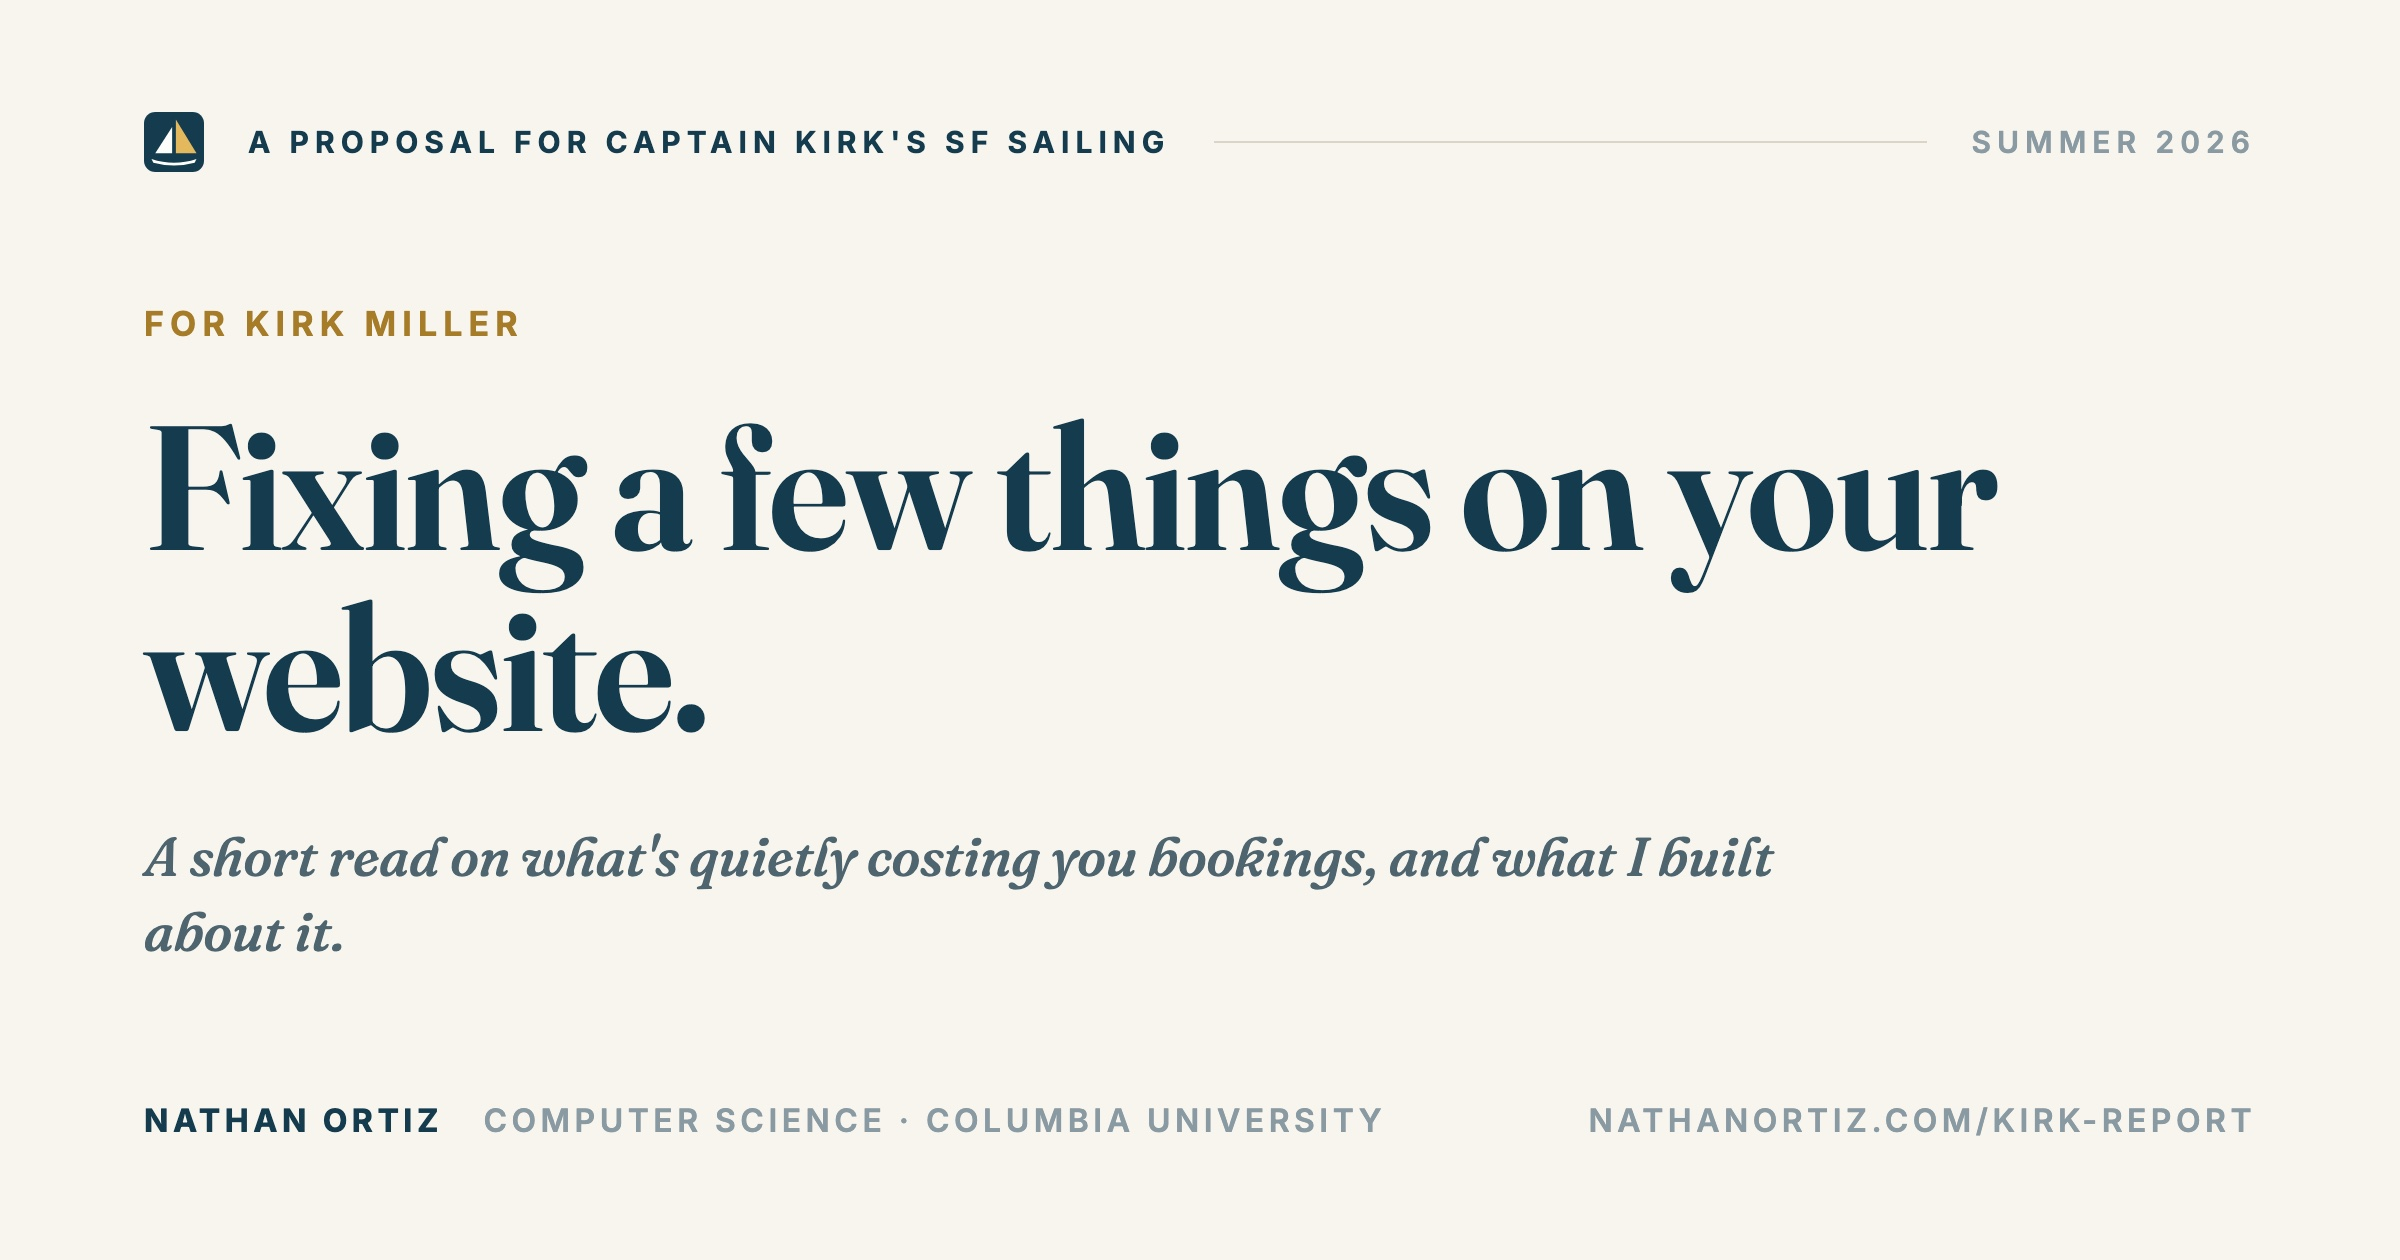
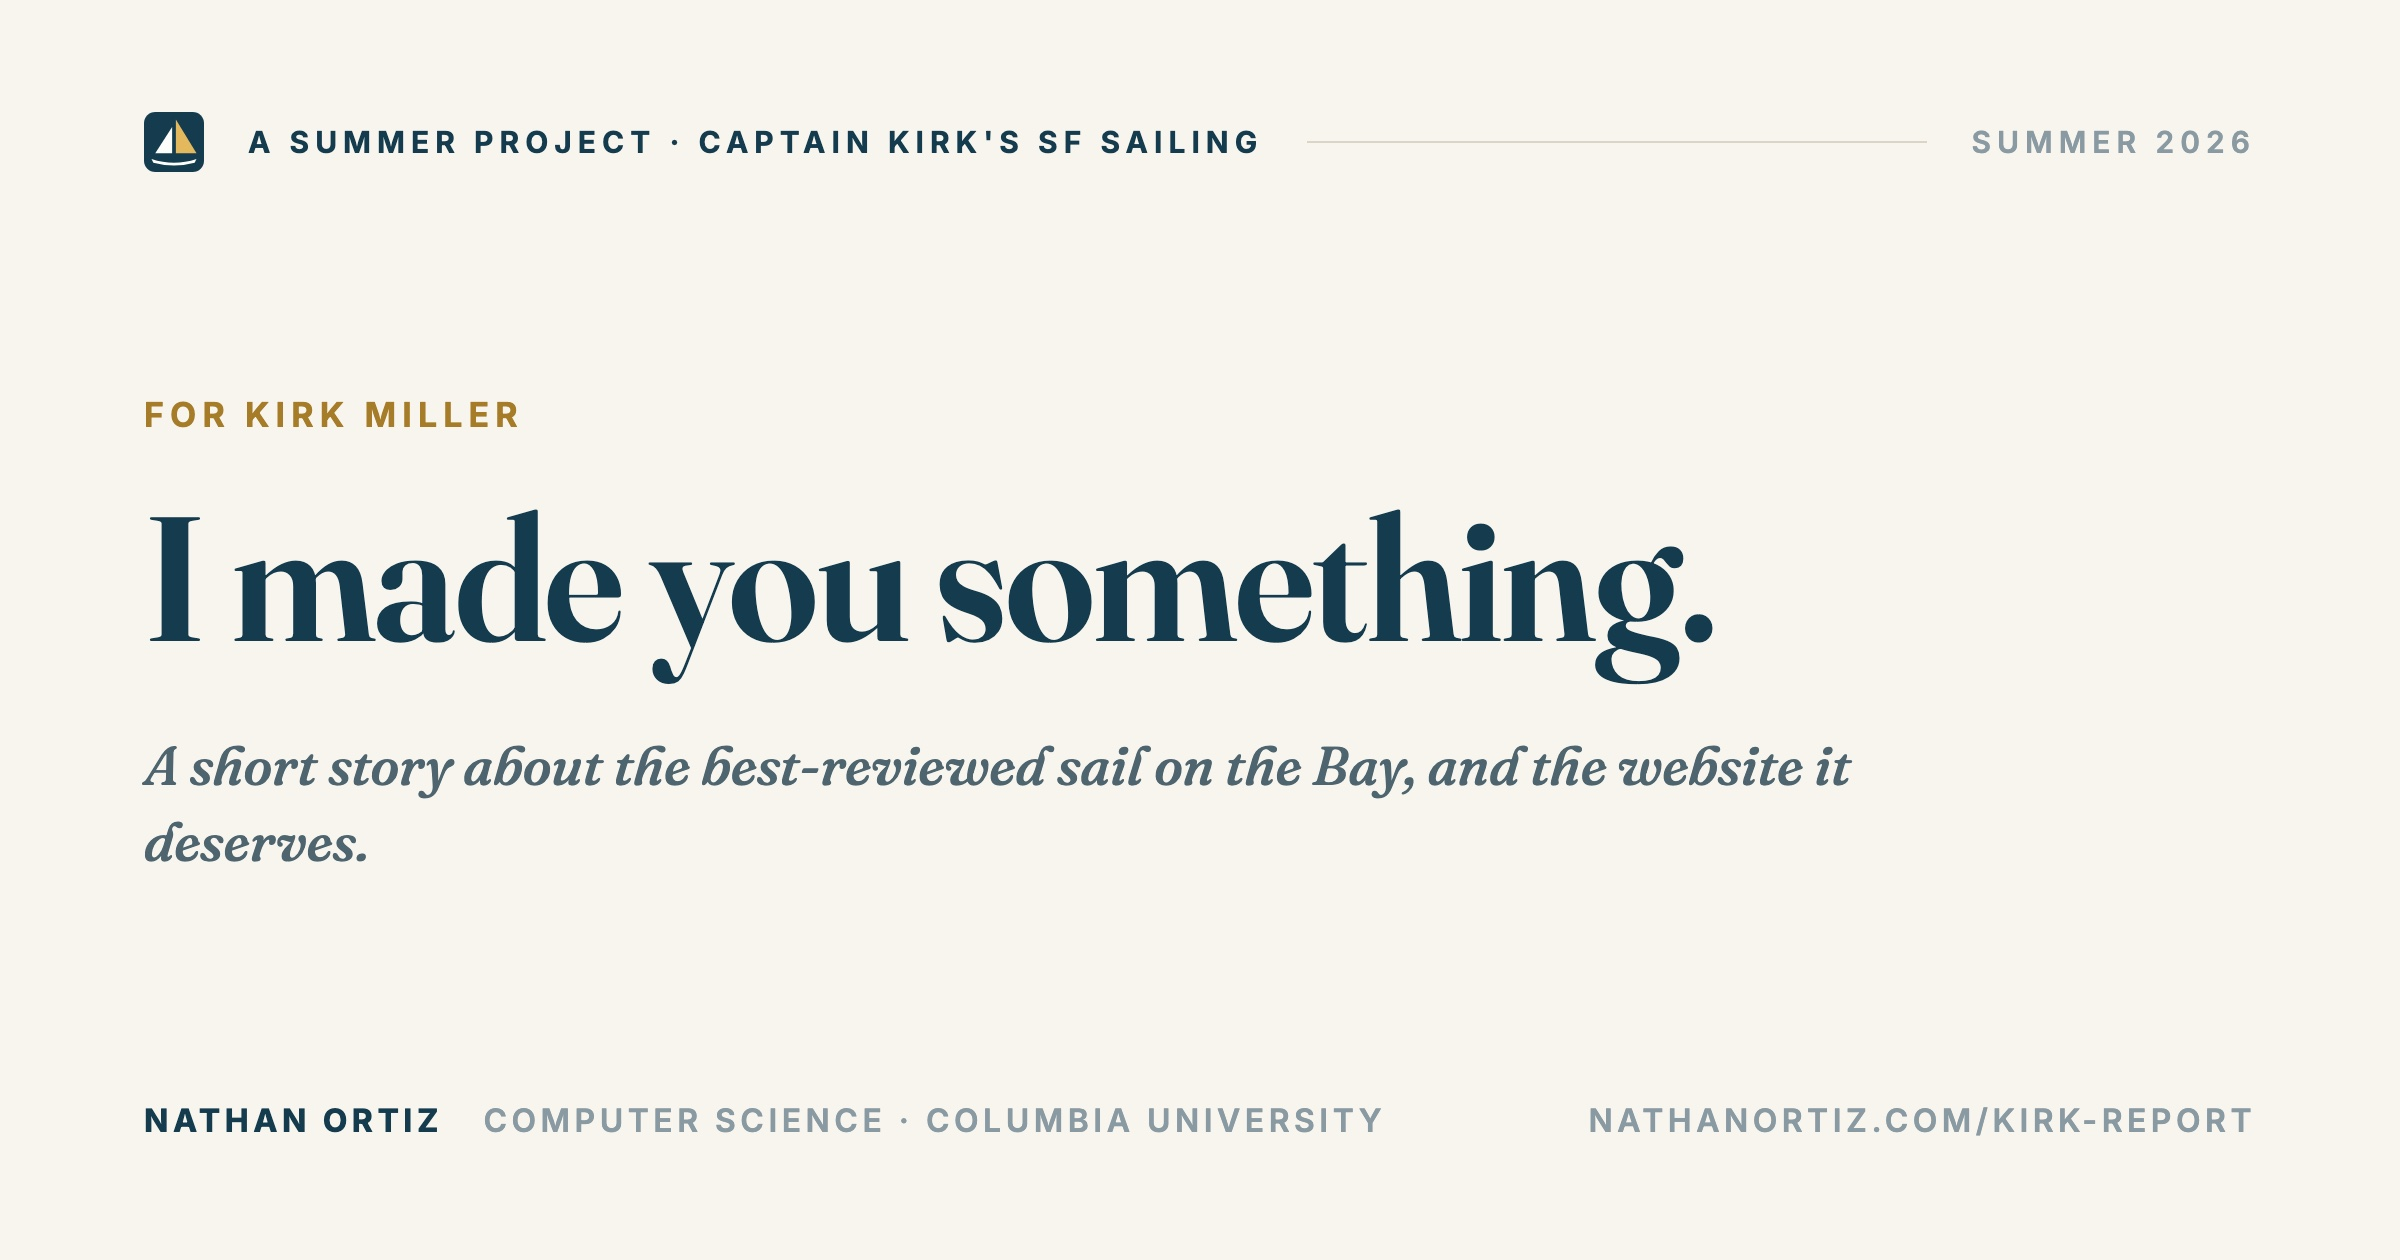
Share card: warmer gift angle, I made you something

Changed region(s): [[0.0625, 0.3095, 0.8438, 0.7738], [0.125, 0.0929, 0.5312, 0.1238], [0.0625, 0.2476, 0.2188, 0.2786]]

diff --git a/public/kirk-report/index.html b/public/kirk-report/index.html
@@ -6,8 +6,8 @@
 <meta name="robots" content="noindex,nofollow">
 <meta name="theme-color" content="#143C4E">
 <meta property="og:type" content="article">
-<meta property="og:title" content="A proposal for Captain Kirk's San Francisco Sailing">
-<meta property="og:description" content="From Nathan Ortiz, Columbia CS. A short read on what's quietly costing you bookings, and what I built about it.">
+<meta property="og:title" content="Something I made for Captain Kirk's">
+<meta property="og:description" content="From Nathan Ortiz, Columbia CS. A short story about the best-reviewed sail on the Bay, and the website it deserves.">
 <meta property="og:image" content="https://nathanortiz.com/kirk-report/og-card.jpg">
 <meta property="og:image:width" content="2400">
 <meta property="og:image:height" content="1260">
